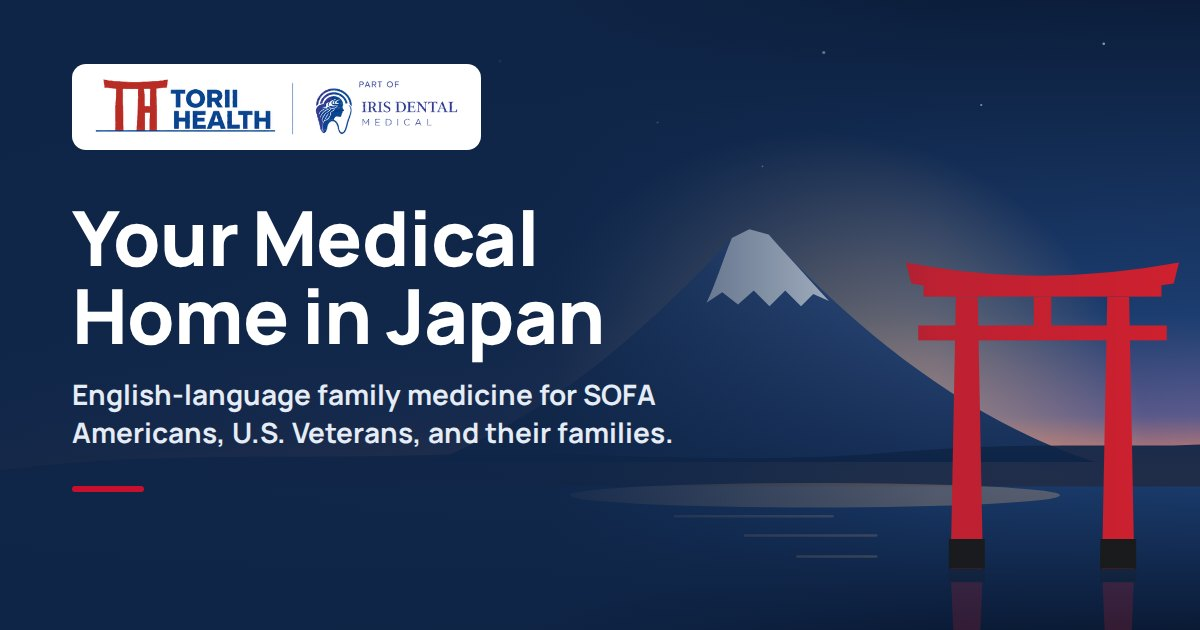
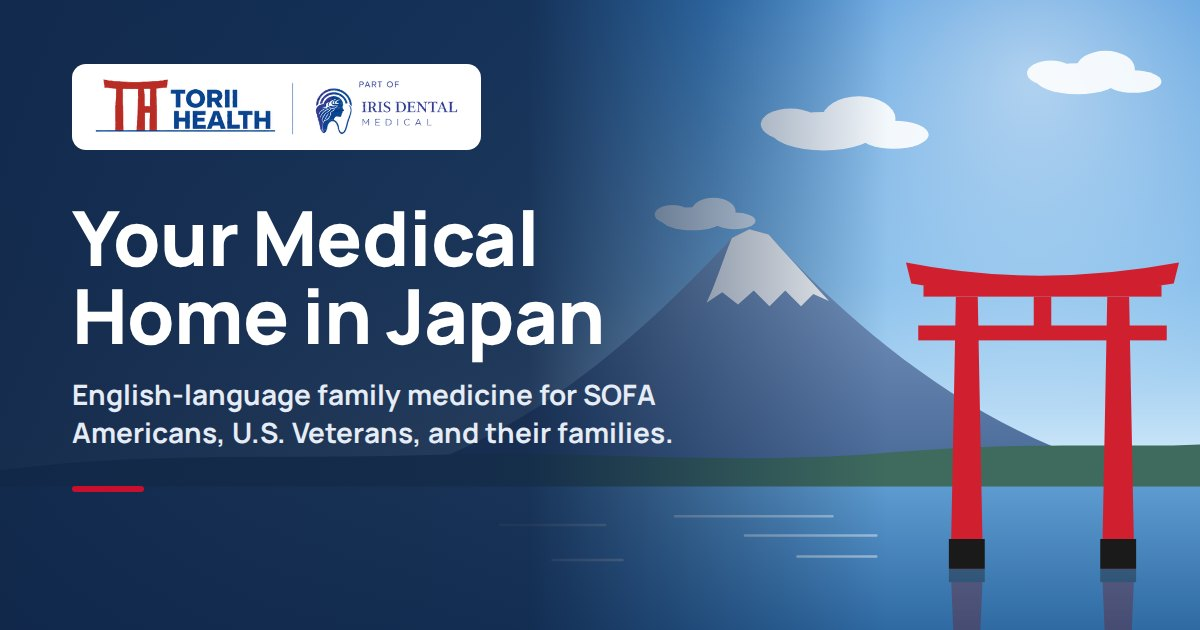
Home: switch hero to daytime illustration (candidate A) and update og-home.jpg

diff --git a/index.html b/index.html
@@ -97,7 +97,7 @@
 
     <!-- ================================================================
       HERO
-      背景は軽量なインラインSVGイラスト(画像リクエストなし・LCPはテキスト)。
+      背景は軽量なインラインSVGイラスト（昼間の富士山と鳥居・候補A。画像リクエストなし・LCPはテキスト）。
       実写のJapan画像に差し替える場合は、<svg class="hero__art"> を
       <img class="hero__art" src="..." alt="" width="1600" height="900"
            fetchpriority="high" style="object-fit:cover"> に置き換える。
@@ -105,24 +105,13 @@
     <section class="hero" aria-labelledby="hero-title">
       <svg class="hero__art" viewBox="0 0 1440 720" preserveAspectRatio="xMaxYMax slice" aria-hidden="true" focusable="false">
         <defs>
-          <linearGradient id="h-sky" x1="0" y1="0" x2="0" y2="1">
-            <stop offset="0" stop-color="#0b1d3a"/>
-            <stop offset=".5" stop-color="#1c3d70"/>
-            <stop offset=".66" stop-color="#5b5a8c"/>
-            <stop offset=".75" stop-color="#e4876c"/>
-          </linearGradient>
-          <radialGradient id="h-glow" cx="1000" cy="530" r="380" gradientUnits="userSpaceOnUse">
-            <stop offset="0" stop-color="#ffc48a" stop-opacity=".75"/>
-            <stop offset="1" stop-color="#ffc48a" stop-opacity="0"/>
+          <linearGradient id="h-sky" x1="0" y1="0" x2="0" y2="1"><stop offset="0" stop-color="#3f8fd8"/><stop offset="0.45" stop-color="#7fbaea"/><stop offset="0.7" stop-color="#c4e2f7"/><stop offset="0.77" stop-color="#eef7fd"/></linearGradient>
+          <radialGradient id="h-glow" cx="1250" cy="90" r="380" gradientUnits="userSpaceOnUse">
+            <stop offset="0" stop-color="#ffffff" stop-opacity="0.55"/>
+            <stop offset="1" stop-color="#ffffff" stop-opacity="0"/>
           </radialGradient>
-          <linearGradient id="h-mtn" x1="0" y1="0" x2="0" y2="1">
-            <stop offset="0" stop-color="#36578c"/>
-            <stop offset="1" stop-color="#172f58"/>
-          </linearGradient>
-          <linearGradient id="h-water" x1="0" y1="0" x2="0" y2="1">
-            <stop offset="0" stop-color="#1a3a6a"/>
-            <stop offset="1" stop-color="#0a1a35"/>
-          </linearGradient>
+          <linearGradient id="h-mtn" x1="0" y1="0" x2="0" y2="1"><stop offset="0" stop-color="#7f9cc4"/><stop offset="1" stop-color="#4c6c9a"/></linearGradient>
+          <linearGradient id="h-water" x1="0" y1="0" x2="0" y2="1"><stop offset="0" stop-color="#5d9bd0"/><stop offset="1" stop-color="#2f6aa3"/></linearGradient>
           <g id="h-torii">
             <path d="M1104 300 Q1255 330 1416 300 L1410 324 Q1255 350 1110 324 Z"/>
             <rect x="1124" y="326" width="272" height="13"/>
@@ -135,21 +124,16 @@
           </g>
         </defs>
         <rect width="1440" height="720" fill="url(#h-sky)"/>
-        <g fill="#fff" opacity=".55">
-          <circle cx="640" cy="70" r="1.6"/><circle cx="820" cy="140" r="1.2"/><circle cx="1010" cy="60" r="1.8"/>
-          <circle cx="1190" cy="120" r="1.2"/><circle cx="1330" cy="50" r="1.5"/><circle cx="940" cy="190" r="1"/>
-        </g>
         <rect width="1440" height="720" fill="url(#h-glow)"/>
+        <g fill="#fff" opacity="0.9" transform="translate(1010 150) scale(1.0)"><ellipse cx="0" cy="0" rx="60" ry="22"/><ellipse cx="40" cy="-14" rx="42" ry="26"/><ellipse cx="-38" cy="-8" rx="34" ry="18"/><ellipse cx="80" cy="4" rx="40" ry="16"/></g><g fill="#fff" opacity="0.9" transform="translate(1300 90) scale(0.8)"><ellipse cx="0" cy="0" rx="60" ry="22"/><ellipse cx="40" cy="-14" rx="42" ry="26"/><ellipse cx="-38" cy="-8" rx="34" ry="18"/><ellipse cx="80" cy="4" rx="40" ry="16"/></g><g fill="#fff" opacity="0.8" transform="translate(860 250) scale(0.6)"><ellipse cx="0" cy="0" rx="60" ry="22"/><ellipse cx="40" cy="-14" rx="42" ry="26"/><ellipse cx="-38" cy="-8" rx="34" ry="18"/><ellipse cx="80" cy="4" rx="40" ry="16"/></g>
         <path d="M560 528 C700 476 822 362 905 272 L925 262 L947 268 C1030 360 1160 476 1320 528 Z" fill="url(#h-mtn)"/>
-        <path d="M905 272 L925 262 L947 268 C972 296 996 322 1016 344 L998 336 L984 350 L966 332 L948 350 L930 332 L912 348 L894 334 L876 346 C886 326 895 296 905 272 Z" fill="#eef3fb" opacity=".95"/>
-        <path d="M0 548 C200 512 380 526 560 520 C760 514 900 534 1100 516 C1260 504 1360 512 1440 508 L1440 560 L0 560 Z" fill="#0f2547" opacity=".92"/>
+        <path d="M905 272 L925 262 L947 268 C972 296 996 322 1016 344 L998 336 L984 350 L966 332 L948 350 L930 332 L912 348 L894 334 L876 346 C886 326 895 296 905 272 Z" fill="#ffffff" opacity=".97"/>
+        <path d="M0 548 C200 512 380 526 560 520 C760 514 900 534 1100 516 C1260 504 1360 512 1440 508 L1440 560 L0 560 Z" fill="#3f6b5e"/>
         <rect y="556" width="1440" height="164" fill="url(#h-water)"/>
-        <ellipse cx="1000" cy="566" rx="280" ry="14" fill="#ffc48a" opacity=".28"/>
-        <g stroke="#ffc48a" stroke-linecap="round" opacity=".22" stroke-width="3">
-          <path d="M840 590h180M920 612h150M980 636h90"/>
-        </g>
+        <g stroke="#ffffff" stroke-linecap="round" opacity=".45" stroke-width="3"><path d="M840 590h180M920 612h150M980 636h90M640 600h120M700 640h80"/></g>
         <use href="#h-torii" fill="#d0202f"/>
-        <use href="#h-torii" fill="#d0202f" opacity=".22" transform="matrix(1 0 0 -0.45 0 942.5)"/>
+        <use href="#h-torii" fill="#6e1c26" opacity=".38" transform="matrix(1 0 0 -0.45 0 942.5)"/>
+        
       </svg>
 
       <div class="th-container hero__inner">

diff --git a/assets/css/home.css b/assets/css/home.css
@@ -21,13 +21,13 @@
   height: 100%;
   z-index: -2;
 }
-/* Keeps the copy side dark enough for AA contrast over the artwork */
+/* Keeps the copy side dark enough for AA contrast over the daytime artwork */
 .hero::before {
   content: "";
   position: absolute;
   inset: 0;
   z-index: -1;
-  background: linear-gradient(90deg, rgba(15,37,71,0.96) 0%, rgba(15,37,71,0.9) 45%, rgba(15,37,71,0.2) 75%, rgba(15,37,71,0) 100%);
+  background: linear-gradient(90deg, rgba(15,37,71,0.95) 0%, rgba(15,37,71,0.86) 38%, rgba(15,37,71,0.45) 52%, rgba(15,37,71,0) 66%);
 }
 .hero__inner {
   padding-top: clamp(64px, 9vw, 120px);
@@ -35,7 +35,7 @@
 }
 .hero__content { max-width: 600px; }
 .hero .th-eyebrow { color: #fff; opacity: 0.9; }
-.hero .th-eyebrow span { color: #ff6b7f; }
+.hero .th-eyebrow span { color: rgba(255,255,255,0.55); }
 .hero h1 {
   color: #fff;
   font-size: clamp(2.4rem, 5.6vw, 4rem);
@@ -67,7 +67,7 @@
   color: #c3cfe2;
 }
 .hero__meta li { display: flex; align-items: center; gap: 8px; }
-.hero__meta svg { width: 16px; height: 16px; flex: none; stroke: #ff8a99; }
+.hero__meta svg { width: 16px; height: 16px; flex: none; stroke: #fff; }
 
 .hero__eyebrow b { font-weight: inherit; white-space: nowrap; }
 
@@ -205,7 +205,7 @@
   text-align: center;
   border-top: 4px solid var(--th-red);
 }
-.mission .th-eyebrow { color: #ff8a99; }
+.mission .th-eyebrow { color: #fff; }
 .mission .th-eyebrow { font-size: 0.85rem; margin-bottom: 18px; }
 .mission__statement {
   font-family: var(--th-font-display);
@@ -224,7 +224,7 @@
   margin-bottom: 34px;
 }
 .mission__pillars b { font-weight: inherit; white-space: nowrap; }
-.mission__pillars b + b::before { content: "·"; color: #ff6b7f; padding: 0 0.5em 0 0.2em; }
+.mission__pillars b + b::before { content: "·"; color: rgba(255,255,255,0.55); padding: 0 0.5em 0 0.2em; }
 .mission .th-btns { justify-content: center; }
 
 /* --------------------------------------------------------------------------

diff --git a/CLAUDE.md b/CLAUDE.md
@@ -183,3 +183,4 @@ python3 -m http.server 8080
 - 2026-10-01（2）：メルマガを Kit 公式の HTML 埋め込み（ck.5.js）に戻し、スライドイン（7684212：50%スクロールで表示・PCのみ・閉じたら15日非表示）も復活。ck.5.js は「最初の操作時 or 読み込み3秒後」に遅延読み込み（それまでは通常 POST で Kit に送信される）。Kit の設定を変えたら index.html の `data-options` を Kit の HTML 埋め込みコードに合わせる。フォントを Google Fonts の `@import` から自前ホスト（`assets/fonts`、可変フォント・SIL OFL）に変更し、`styles.css` に `@font-face` を記述（全ページに効く）。`partials/header.html`・`footer.html` の `aria-label` 付き div に `role="group"` を追加（Lighthouse アクセシビリティ指摘）。Netlify 用の `_headers` を追加（セキュリティヘッダー、フォント1年・画像7日のキャッシュ）。
 - 2026-10-07：Design Brief（D1）掲載ページをすべて新方式に作り直し（Services / Veteran Care / About / Team / FAQ / Appointments / Billing）。共通部品を `assets/css/site.css` に集約（ページヒーロー・パンくず・カード・CTA帯・FAQアコーディオン・Kit フォーム等）、トップも site.css を使う形に変更（見た目は不変）。ナビを「Services / Veteran Care / About / Team / FAQ / Education / Patient Portal / Book now」のフラット構成に、フッターを「Torii Health | part of Iris Dental Medical」＋4列（Care / About / Contact）に変更、Work With Us はフッターへ。ヘッダーの aria-current 判定が apex ドメインのリンクで効いていなかった不具合を修正。`/vetconsultation`・`/service` を `_redirects` で `/veteran-consultation` に 301（force）。各ページに OG 画像（`Images/Shared/og-*.jpg`）、BreadcrumbList / MedicalWebPage 等の構造化データを追加。sitemap から vetconsultation を削除。
 - 2026-10-07（2）：Services に「A closer look at our care」を追加（旧 Services・旧 FAQ にあった PrEP/PEP、性別適合ホルモン療法、ED、依存症治療、ADHD（刺激薬は日本で処方不可の注記）、GLP-1、テストステロン、ニキビ、各種検査、薬の郵送・米軍薬局への電子処方など）。構造化データに availableService を追加。Dr. Yao の綴りを Masahiro に修正。
+- 2026-10-11：トップのヒーローを昼間のイラスト（候補A：青空・雲・緑の丘・富士山・鳥居）に変更。PC の紺のグラデーションを左側だけに縮め、ヒーローとミッション欄のピンク系アクセント（区切り線・アイコン・OUR MISSION）を白系に変更。鳥居の水面の映り込みを暗い赤茶に（ピンク・紫に見えないように）。`Images/Shared/og-home.jpg` も昼間の絵柄に更新。
